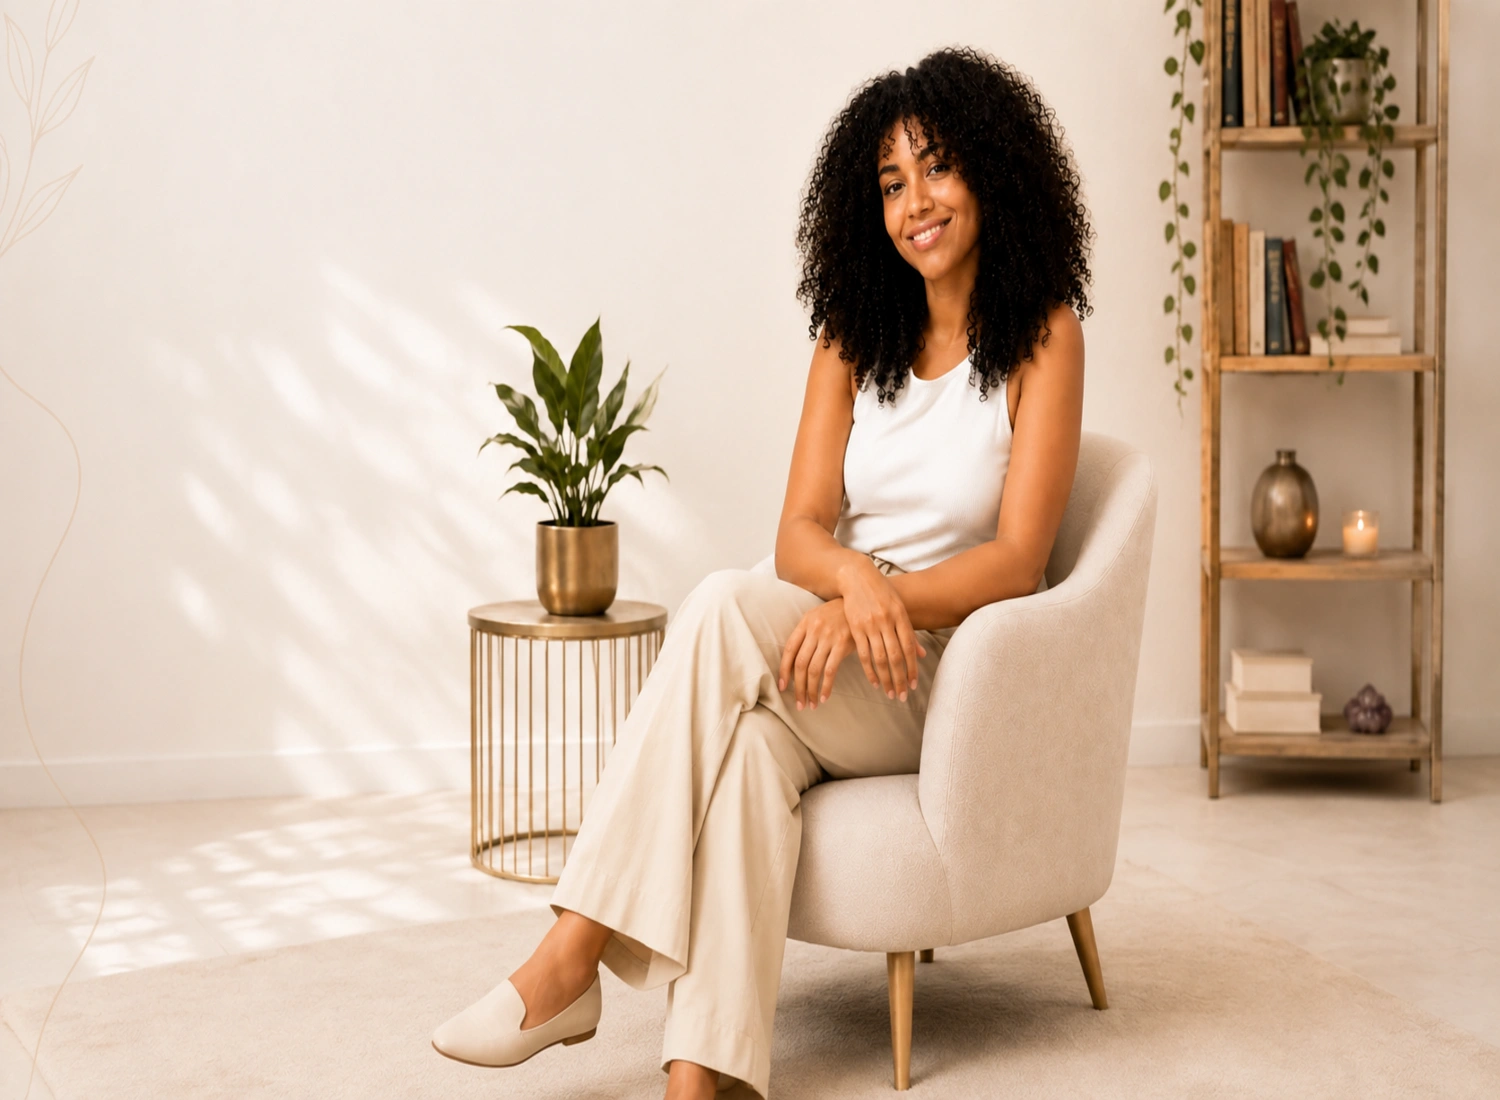
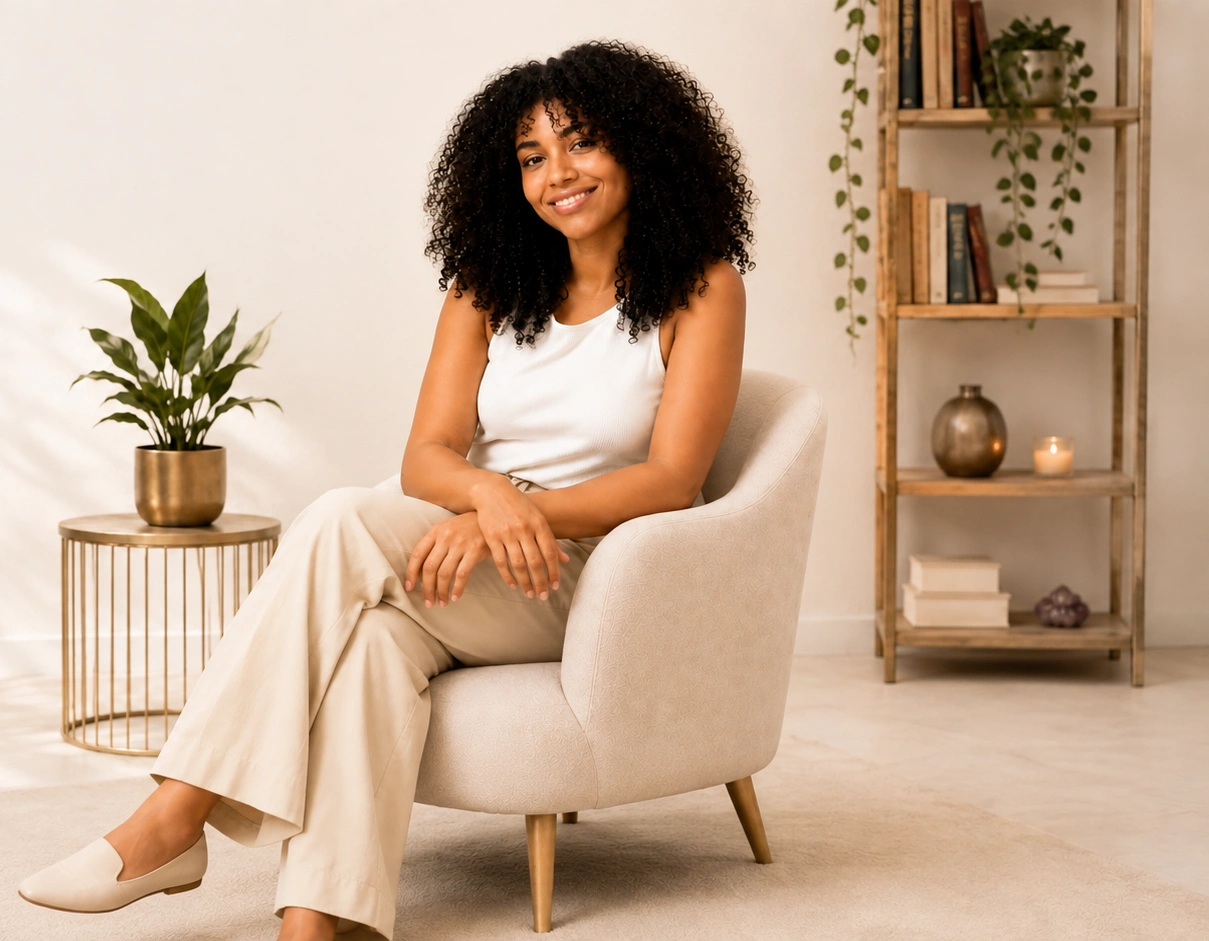
Add files via upload

diff --git a/index.html b/index.html
@@ -54,31 +54,24 @@
         <span class="hero-shape-secondary"></span>
 
         <div class="hero-photo">
-          <div class="hero-photo">
-
-  <picture>
-
-    <source
-      media="(max-width: 767px), (orientation: landscape) and (max-height: 500px)"
-      srcset="assets/hero-mobile.webp"
-    >
-
-    <img
-      src="assets/hero-desktop.webp"
-      alt="Mulher contemplando o mar"
-      width="1300"
-      height="1250"
-      loading="eager"
-      fetchpriority="high"
-      decoding="async"
-    >
-
-  </picture>
-
-</div>
+          <picture>
+            <source
+              media="(max-width: 767px), (orientation: landscape) and (max-height: 500px)"
+              srcset="assets/hero-mobile.webp"
+            >
+            <img
+              src="assets/hero-desktop.webp"
+              alt="Mulher contemplando o mar"
+              width="1300"
+              height="1250"
+              loading="eager"
+              fetchpriority="high"
+              decoding="async"
+            >
+          </picture>
+        </div>
         </div>
       </div>
-    </div>
 </section>
 
 <section class="info-section">
@@ -459,15 +452,26 @@
         </div>
       </div>
       <div class="therapy-image">
-        <img
-          src="assets/psicoterapia.webp"
-          alt="Mulher sentada em ambiente acolhedor"
-          width="1500"
-          height="1100"
-          loading="lazy"
-          decoding="async"
-        >
-      </div>
+
+  <picture>
+
+    <source
+      media="(max-width: 767px), (orientation: landscape) and (max-height: 500px)"
+      srcset="assets/psicoterapia-mobile.webp"
+    >
+
+    <img
+      src="assets/psicoterapia.webp"
+      alt="Mulher sentada em ambiente acolhedor"
+      width="1500"
+      height="1100"
+      loading="lazy"
+      decoding="async"
+    >
+
+  </picture>
+
+</div>
     </section>
 
    <section class="psychologists" id="psicologas">
@@ -482,14 +486,21 @@
 
         <article class="psych-card">
           <div class="psych-image">
-            <img
-              src="assets/carol-lobo.webp"
-              alt="Carol Lobo"
-              width="941"
-              height="1672"
-              loading="lazy"
-              decoding="async"
-            >
+            <picture>
+              <source
+                media="(max-width: 767px), (orientation: landscape) and (max-height: 500px)"
+                srcset="assets/carol-lobo-mobile.webp"
+              >
+              <img
+                src="assets/carol-lobo.webp"
+                alt="Carol Lobo"
+                width="941"
+                height="1672"
+                loading="lazy"
+                decoding="async"
+              >
+            </picture>
+
           </div>
 
           <div class="psych-content">
@@ -509,14 +520,20 @@
 
         <article class="psych-card">
           <div class="psych-image">
-            <img
-              src="assets/carolina-barbosa.webp"
-              alt="Carolina Barbosa"
-              width="1254"
-              height="1254"
-              loading="lazy"
-              decoding="async"
-            >
+            <picture>
+              <source
+                media="(max-width: 767px), (orientation: landscape) and (max-height: 500px)"
+                srcset="assets/carolina-barbosa-mobile.webp"
+              >
+              <img
+                src="assets/carolina-barbosa.webp"
+                alt="Carolina Barbosa"
+                width="1254"
+                height="1254"
+                loading="lazy"
+                decoding="async"
+              >
+            </picture>
           </div>
 
           <div class="psych-content">
@@ -780,6 +797,11 @@
         rel="noopener"
       >
         <div class="whatsapp-option-photo">
+          <picture>
+          <source
+            media="(max-width: 767px), (orientation: landscape) and (max-height: 500px)"
+            srcset="assets/carol-lobo-mobile.webp"
+          >
           <img
             src="assets/carol-lobo.webp"
             alt="Carol Lobo"
@@ -788,6 +810,7 @@
             loading="lazy"
             decoding="async"
           >
+        </picture>
         </div>
 
         <div class="whatsapp-option-content">
@@ -817,14 +840,20 @@
         rel="noopener"
       >
         <div class="whatsapp-option-photo">
+          <picture>
+          <source
+            media="(max-width: 767px), (orientation: landscape) and (max-height: 500px)"
+            srcset="assets/carolina-barbosa-mobile.webp"
+          >
           <img
-              src="assets/carolina-barbosa.webp"
-              alt="Carolina Barbosa"
-              width="1254"
-              height="1254"
-              loading="lazy"
-              decoding="async"
-            >
+            src="assets/carolina-barbosa.webp"
+            alt="Carolina Barbosa"
+            width="1254"
+            height="1254"
+            loading="lazy"
+            decoding="async"
+          >
+        </picture>
         </div>
 
         <div class="whatsapp-option-content">

diff --git a/styles.css b/styles.css
@@ -915,6 +915,14 @@ p { margin-top: 0; }
   object-fit: cover;
   object-position: 60% 12%;
 }
+.therapy-image picture {
+  position: absolute;
+  inset: 0;
+  display: block;
+  width: 100%;
+  height: 100%;
+}
+
 /* Psychologists */
 
 .psychologists {
@@ -1003,7 +1011,20 @@ p { margin-top: 0; }
   border-radius: 0;
   transition: transform .65s ease;
 }
+.psych-image picture {
+  display: block;
 
+  width: 100%;
+  height: 100%;
+}
+.psych-image picture img {
+  width: 100%;
+  height: 100%;
+
+  display: block;
+
+  object-fit: cover;
+}
 /* Zoom suave */
 .psych-card:hover .psych-image img {
   transform: scale(1.06);
@@ -1011,7 +1032,7 @@ p { margin-top: 0; }
 
 /* Carol */
 .psych-card:first-child .psych-image img {
-  object-position: center 32%;
+  object-position: center 26%;
 }
 
 /* Carolina */
@@ -1920,11 +1941,17 @@ p { margin-top: 0; }
   object-fit: cover;
   object-position: center;
 }
+.whatsapp-option-photo picture {
+  display: block;
+
+  width: 100%;
+  height: 100%;
+}
 
 /* FOTO — CAROL */
 
 .whatsapp-carol .whatsapp-option-photo img {
-  object-position: center 30%;
+  object-position: center 22%;
 }
 
 
@@ -4784,7 +4811,7 @@ p { margin-top: 0; }
     height: 100%;
 
     object-fit: cover;
-    object-position: 60% 16%;
+    object-position: center center;
   }
 
 
@@ -4929,7 +4956,7 @@ p { margin-top: 0; }
   }
 
   .psych-card:first-child .psych-image img {
-    object-position: center 30%;
+    object-position: center 16%;
   }
 
   .psych-card:nth-child(2) .psych-image img {
@@ -5189,7 +5216,6 @@ p { margin-top: 0; }
     */
     background-position: center bottom;
   }
-  }
 
 
   /* CAIXA PRINCIPAL */
@@ -5285,6 +5311,7 @@ p { margin-top: 0; }
   text-align: center;
   font-size: .62rem;
   line-height: 1.45;
+}
 }
 
 /* ==================================================
@@ -5876,7 +5903,7 @@ p { margin-top: 0; }
   /* Carol */
 
   .whatsapp-carol .whatsapp-option-photo img {
-    object-position: center 30%;
+    object-position: center 8%;
   }
 
 
@@ -6516,11 +6543,11 @@ p { margin-top: 0; }
   }
 
   .psych-card:first-child .psych-image img {
-    object-position: center 30%;
+    object-position: center 8%;
   }
 
   .psych-card:nth-child(2) .psych-image img {
-    object-position: center 27%;
+    object-position: center 22%;
   }
 }
 
@@ -7162,7 +7189,7 @@ p { margin-top: 0; }
   /* Carol */
 
   .whatsapp-carol .whatsapp-option-photo img {
-    object-position: center 32%;
+    object-position: center 8%;
   }
 
 
